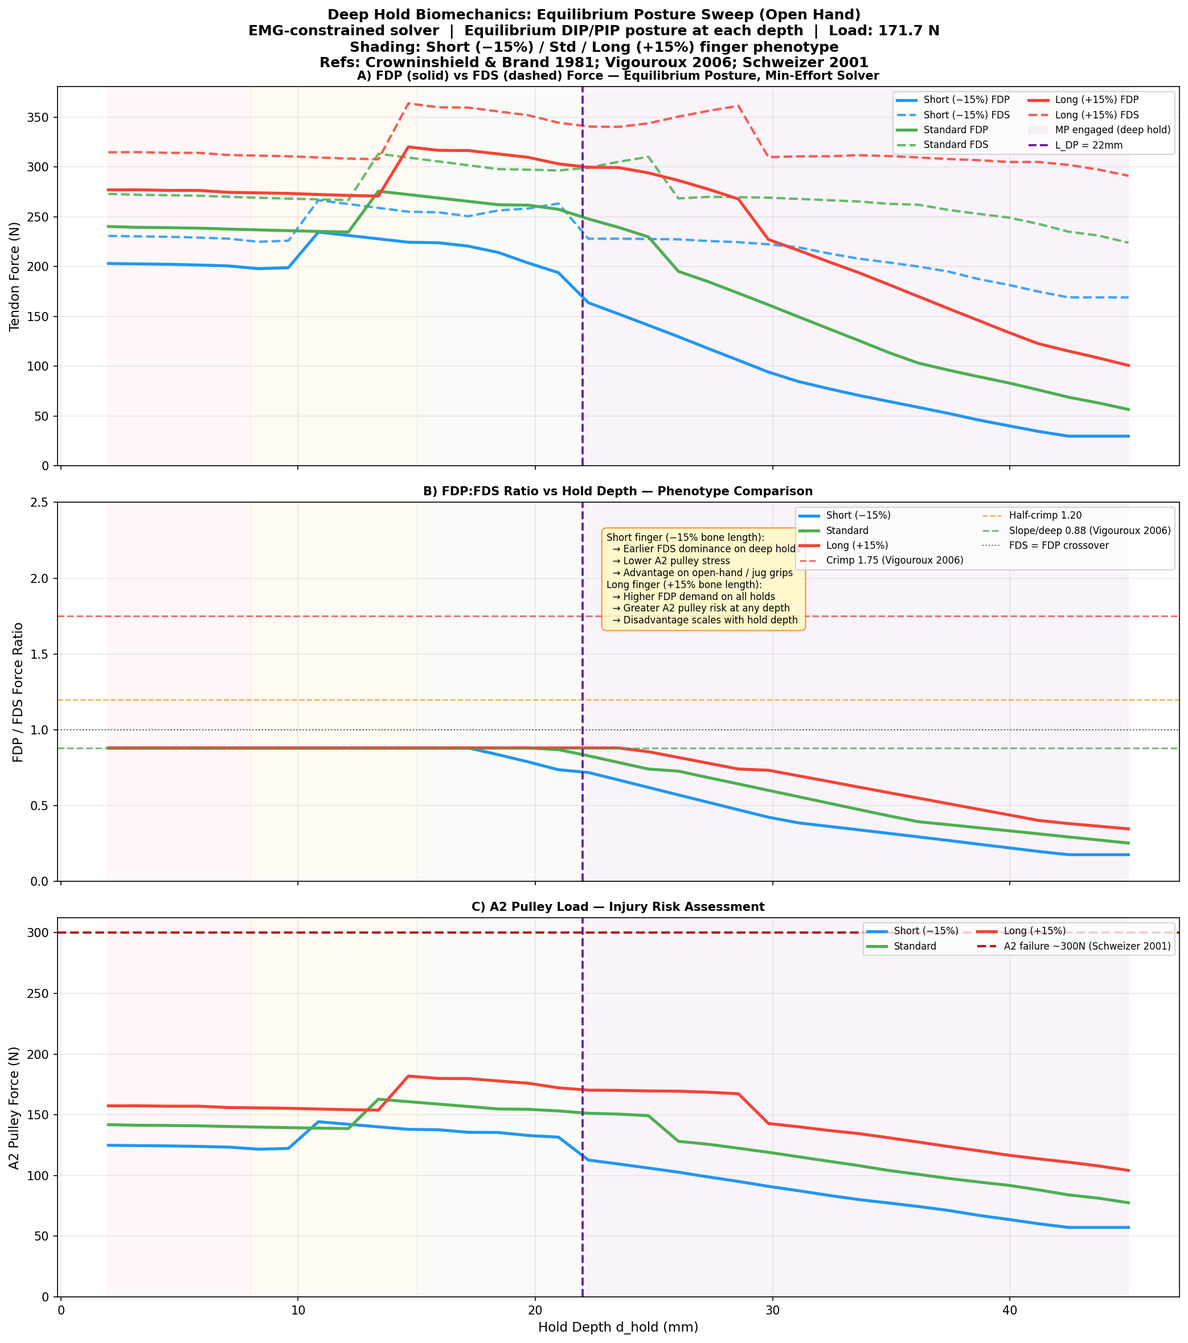
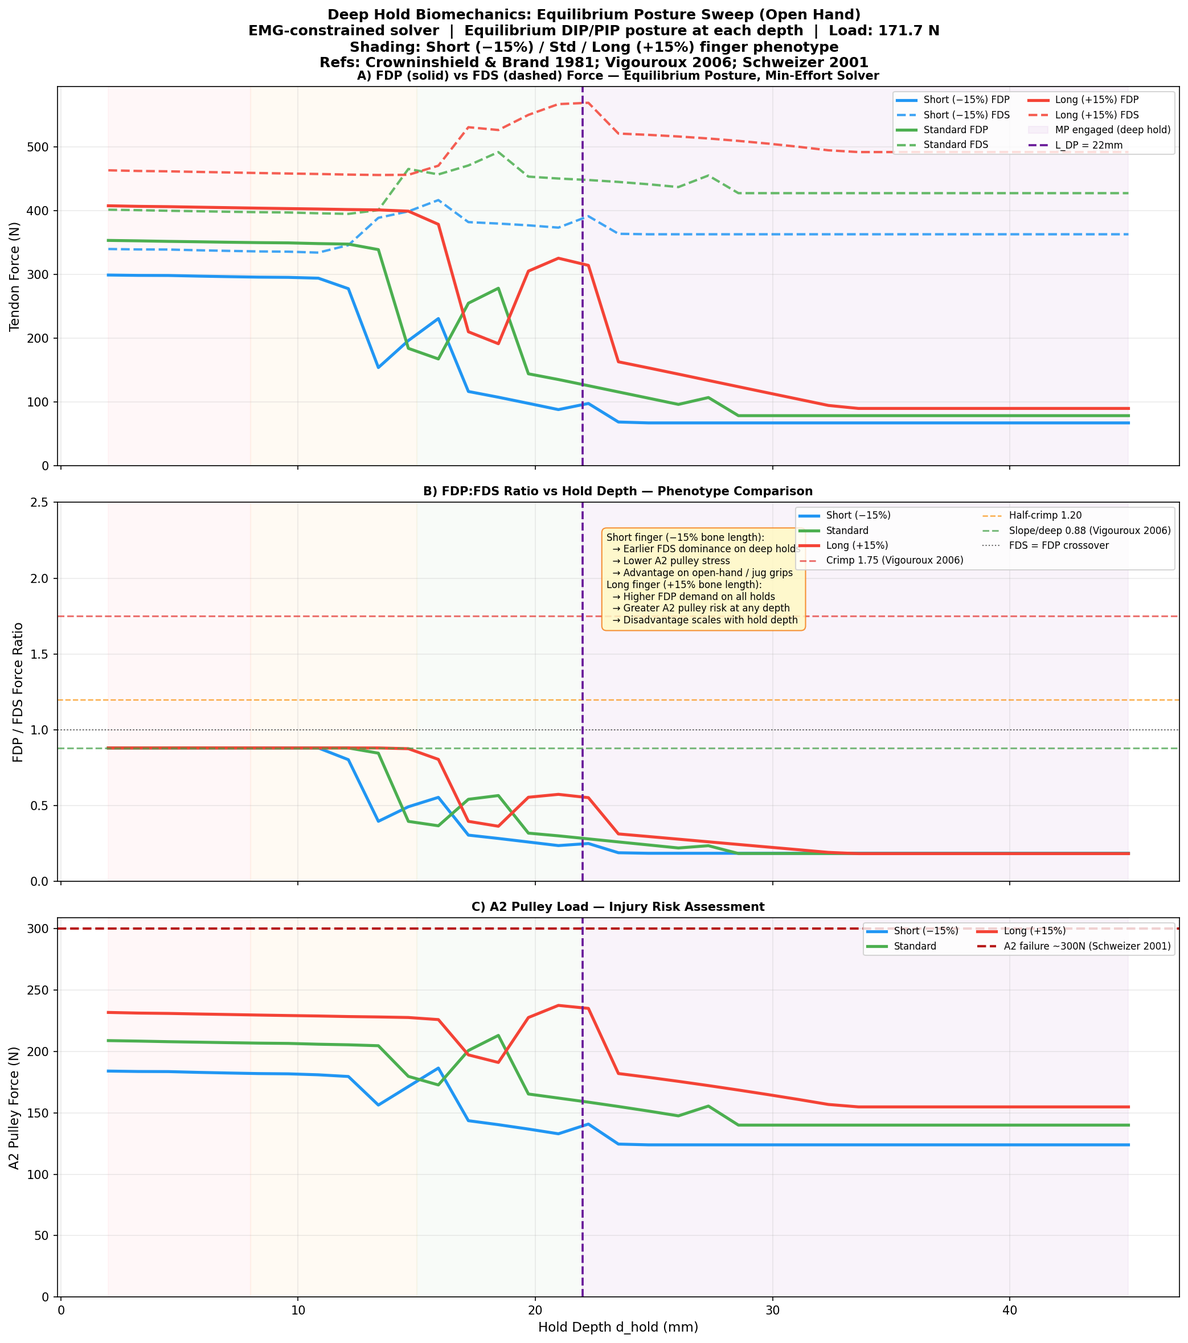
feat: implement 3D biomechanical physics framework with documentation and workflow tracking

diff --git a/climbing_finger_3d.py b/climbing_finger_3d.py
@@ -238,6 +238,10 @@ def moment_arms(grip):
         FDP_abd=-2.1,   # ulnar side
         FDS_abd=-1.5,
         LU_abd = 3.5,   # radial side
+        EDC_DIP=-4.0,   # extends DIP
+        EDC_PIP=-6.0,   # extends PIP
+        EDC_MCP=-10.0,  # extends MCP
+        EDC_abd=0.0,    # assumed neutral
     )
 
 
@@ -288,18 +292,30 @@ def compute_contact_point(grip, geom, contact: ContactGeometry, kin, F_mag: floa
       Doyle J.R. & Blythe W. (1984) Hand 16:419-426.
       Moutet F. (2003) Hand Clinics 19(2):168-175.
     """
-    e_DP   = kin['R_DIP'] @ np.array([1., 0., 0.])
+    e_DP = kin['R_DIP'] @ np.array([1., 0., 0.])
     n_palm = kin['R_DIP'] @ np.array([0., -1., 0.])
-    y_hat  = np.array([0., 1., 0.])
+    e_MP = kin['R_PIP'] @ np.array([1., 0., 0.])
+    n_palm_MP = kin['R_PIP'] @ np.array([0., -1., 0.])
 
-    correction = contact.r_edge * abs(float(np.dot(e_DP, y_hat)))
-    # NOTE: clamping to geom.L3 removed — deep holds are captured explicitly below
-    d_eff = contact.d_hold + correction
+    # Hold normal derived from the expected external force direction
+    # assuming vertical wall beta=0 maps to F_ext=x_hat, etc.
+    b = np.radians(contact.beta_wall)
+    n_hold = np.array([np.cos(b), -np.sin(b), 0.0])
+
+    # Angle projection:
+    cos_alpha3 = max(float(np.linalg.norm(np.cross(e_DP, n_hold))), 0.05)
+    cos_alpha2 = max(float(np.linalg.norm(np.cross(e_MP, n_hold))), 0.05)
+
+    correction = contact.r_edge * abs(float(np.dot(e_DP, n_hold)))
+    proj_d_hold = contact.d_hold + correction
+
+    max_d_hold_DP = geom.L3 * cos_alpha3
 
     p_TIP_palmar = kin['p_TIP'] + (contact.t_DP / 2.0) * n_palm
 
-    if d_eff <= geom.L3:
+    if proj_d_hold <= max_d_hold_DP:
         # ── Shallow hold: all force on DP ──────────────────────────────────
+        d_eff = proj_d_hold / cos_alpha3
         # Triangular distribution on DP: centroid at 1/3 from tip
         s_centroid = d_eff / 3.0   # weighted centroid within engaged region
         p_C_DP = p_TIP_palmar - s_centroid * e_DP
@@ -307,9 +323,14 @@ def compute_contact_point(grip, geom, contact: ContactGeometry, kin, F_mag: floa
 
     else:
         # ── Deep hold: force splits across DP (full) + MP (partial) ────────
+        remain_d_hold = proj_d_hold - max_d_hold_DP
+        engaged_MP = remain_d_hold / cos_alpha2
+        
         # Cap MP engagement at MP length (minus small margin for numerical safety)
-        engaged_MP   = min(d_eff - geom.L3, geom.L2 - 0.5)
-        total        = geom.L3 + engaged_MP
+        engaged_MP = min(engaged_MP, geom.L2 - 0.5)
+        
+        d_eff = geom.L3 + engaged_MP
+        total = geom.L3 + engaged_MP
 
         # Triangular pressure areas (proportional to integral of pressure profile)
         area_DP = geom.L3 / 2.0                           # ∫(1-s/L3)ds from 0→L3
@@ -322,9 +343,6 @@ def compute_contact_point(grip, geom, contact: ContactGeometry, kin, F_mag: floa
         # DP centroid: at 1/3 of full DP length from tip (triangular load)
         p_C_DP = p_TIP_palmar - (geom.L3 / 3.0) * e_DP
 
-        # MP geometry
-        e_MP        = kin['R_PIP'] @ np.array([1., 0., 0.])
-        n_palm_MP   = kin['R_PIP'] @ np.array([0., -1., 0.])
         p_DIP_palmar = kin['p_DIP'] + (contact.t_DP / 2.0) * n_palm_MP
 
         # Geometric centroid of MP contact: at 2/3 of engaged_MP from DIP
@@ -495,31 +513,27 @@ def find_equilibrium_posture(grip_base: GripAngles, geom: FingerGeometry,
                                p_contact_DP=p_C_DP, p_contact_MP=p_C_MP,
                                F_mag_DP=F_DP, F_mag_MP=F_MP)
 
-        # Use EMG method (3×2 lstsq) for scoring — same as Fig 8 plots.
-        # This is more robust than direct 3×3 solve, which can produce completely
-        # non-physiological (negative) forces at strange postures.
-        # To guide the optimizer, we calculate the continuous unclipped forces,
-        # and apply a smooth quadratic penalty for any negative values. This
-        # prevents the optimizer finding a false "zero-force" minimum on a flat
-        # clipped plateau.
+        # Use EMG-constrained solver with Non-Negative Least Squares (nnls)
+        # We explicitly include EDC to provide physiological extensor limits 
+        # protecting against solver collapse on overhangs/weird configurations
+        from scipy.optimize import nnls
         r_emg = get_emg_ratio(grip_base.emg_ratio, d_eff, geom.L3, geom.L2)
         A3e = np.array([
-            [r_emg*ma['FDP_DIP'],                    ma['LU_DIP']],
-            [r_emg*ma['FDP_PIP'] + ma['FDS_PIP'],    ma['LU_PIP']],
-            [r_emg*ma['FDP_MCP'] + ma['FDS_MCP'],    ma['LU_MCP']],
+            [r_emg*ma['FDP_DIP'],                    ma['LU_DIP'], ma['EDC_DIP']],
+            [r_emg*ma['FDP_PIP'] + ma['FDS_PIP'],    ma['LU_PIP'], ma['EDC_PIP']],
+            [r_emg*ma['FDP_MCP'] + ma['FDS_MCP'],    ma['LU_MCP'], ma['EDC_MCP']],
         ])
         b3e = np.array([ext['DIP'], ext['PIP'], ext['MCP']])
-        sol, _, _, _ = np.linalg.lstsq(A3e, b3e, rcond=None)
         
-        # Muscle forces can only pull (>= 0)
-        x_clip = np.array([max(sol[0], 0.0), max(sol[1], 0.0)])
+        # Muscle forces can only pull (>= 0), nnls strictly enforces this
+        x_clip, residual_error = nnls(A3e, b3e)
+        
         F_FDS_clip = x_clip[0]
         F_LU_clip  = x_clip[1]
+        F_EDC_clip = x_clip[2]
         F_FDP_clip = r_emg * F_FDS_clip
         
-        raw_total = F_FDP_clip + F_FDS_clip + F_LU_clip
-        
-        # Calculate how badly the non-negative muscles fail to balance the external load
+        raw_total = F_FDP_clip + F_FDS_clip + F_LU_clip + F_EDC_clip
         # If the joints would collapse (e.g. at degenerate straight-finger postures),
         # this residual will be massive. We heavily penalise it.
         M_muscle = A3e.dot(x_clip)
@@ -626,47 +640,50 @@ def solve_all_methods(grip: GripAngles,
     except np.linalg.LinAlgError:
         f1 = np.linalg.lstsq(A3, b3, rcond=None)[0]
     f1 = np.maximum(f1, 0.0)
+    # Direct method remains 3-DOF pure flexor. Append 0.0 for EDC.
+    f1 = np.array([f1[0], f1[1], f1[2], 0.0])
 
     # ─────────────────────────────────────────────────────────────
-    # Method 2: EMG-constrained (Vigouroux 2006)
+    # Method 2: EMG-constrained (Vigouroux 2006) + EDC
     # ─────────────────────────────────────────────────────────────
+    from scipy.optimize import nnls
     r_emg = get_emg_ratio(grip.emg_ratio, c_info['d_eff'] if contact else None, geom.L3, geom.L2)
     
-    # Solve 3x2 overdetermined system (include DIP, PIP, MCP)
-    # Allows physiological balance without direct 3x3 artifact
+    # Solve 3x3 system with nnls to enforce physiological bounds and recruit EDC if needed
     A3e = np.array([
-        [r_emg*ma['FDP_DIP'],                    ma['LU_DIP']],   # DIP row
-        [r_emg*ma['FDP_PIP'] + ma['FDS_PIP'],    ma['LU_PIP']],   # PIP row
-        [r_emg*ma['FDP_MCP'] + ma['FDS_MCP'],    ma['LU_MCP']],   # MCP row
+        [r_emg*ma['FDP_DIP'],                    ma['LU_DIP'], ma['EDC_DIP']],
+        [r_emg*ma['FDP_PIP'] + ma['FDS_PIP'],    ma['LU_PIP'], ma['EDC_PIP']],
+        [r_emg*ma['FDP_MCP'] + ma['FDS_MCP'],    ma['LU_MCP'], ma['EDC_MCP']],
     ])
     b3e = np.array([ext['DIP'], ext['PIP'], ext['MCP']])
-    sol2, _, _, _ = np.linalg.lstsq(A3e, b3e, rcond=None)   # min-norm LS
-    F_FDS2 = max(sol2[0], 0.0)
-    F_LU2  = max(sol2[1], 0.0)
+    sol2, _ = nnls(A3e, b3e)
+    F_FDS2 = sol2[0]
+    F_LU2  = sol2[1]
+    F_EDC2 = sol2[2]
     F_FDP2 = r_emg * F_FDS2
-    f2     = np.array([F_FDP2, F_FDS2, F_LU2])
+    f2     = np.array([F_FDP2, F_FDS2, F_LU2, F_EDC2])
 
     # ── Method 3: LU-minimising ───────────────────────────────
-    # Set F_LU = 0; solve for FDS from PIP row, get FDP from ratio
-    denom_PIP = r_emg*ma['FDP_PIP'] + ma['FDS_PIP']
-    denom_MCP = r_emg*ma['FDP_MCP'] + ma['FDS_MCP']
-    if denom_PIP > 0.1 and denom_MCP > 0.1:
-        F_FDS3 = max(0.5*(ext['PIP']/denom_PIP + ext['MCP']/denom_MCP), 0.0)
-        F_FDP3 = r_emg * F_FDS3
-        # Any DIP residual absorbed by small LU correction
-        dip_resid = ext['DIP'] - F_FDP3*ma['FDP_DIP']
-        F_LU3 = max(-dip_resid / abs(ma['LU_DIP']), 0.0) if abs(ma['LU_DIP']) > 0.1 else 0.0
-        f3 = np.array([F_FDP3, F_FDS3, F_LU3])
-    else:
-        f3 = f2.copy()
+    # Set F_LU = 0; solve for FDS and EDC using nnls
+    A3_lu = np.array([
+        [r_emg*ma['FDP_DIP'],                    ma['EDC_DIP']],
+        [r_emg*ma['FDP_PIP'] + ma['FDS_PIP'],    ma['EDC_PIP']],
+        [r_emg*ma['FDP_MCP'] + ma['FDS_MCP'],    ma['EDC_MCP']],
+    ])
+    sol3, _ = nnls(A3_lu, b3e)
+    F_FDS3 = sol3[0]
+    F_LU3  = 0.0
+    F_EDC3 = sol3[1]
+    F_FDP3 = r_emg * F_FDS3
+    f3 = np.array([F_FDP3, F_FDS3, F_LU3, F_EDC3])
 
     results = {}
     for mname, f in [('direct', f1), ('emg', f2), ('lu_min', f3)]:
-        FDP, FDS, LU = f
+        FDP, FDS, LU, EDC = f
         ratio = FDP/FDS if FDS > 0.1 else np.inf
         results[mname] = dict(
-            F_FDP=float(FDP), F_FDS=float(FDS), F_LU=float(LU),
-            F_total=float(FDP+FDS+LU),
+            F_FDP=float(FDP), F_FDS=float(FDS), F_LU=float(LU), F_EDC=float(EDC),
+            F_total=float(FDP+FDS+LU+EDC),
             ratio=ratio,
             f_vec=f, kin=kin, ext=ext,
             # Contact geometry info (None if no contact model used)
@@ -1215,12 +1232,12 @@ def run_simulation():
 # ─────────────────────────────────────────────────────────────
 
 def print_summary(all_res, jreact, F_tip):
-    W = 100
+    W = 110
     print('\n' + '='*W)
     print('  3D CLIMBING FINGER BIOMECHANICS  (Standard geometry)')
     print(f'  Load: {F_tip:.1f} N')
     print('='*W)
-    print(f"{'Grip':<13} {'Method':<25} {'F_FDP':>8} {'F_FDS':>8} {'F_LU':>7} "
+    print(f"{'Grip':<13} {'Method':<25} {'F_FDP':>8} {'F_FDS':>8} {'F_LU':>7} {'F_EDC':>7} "
           f"{'Total':>8} {'Ratio':>7} {'A2 3D':>8}")
     print('-'*W)
     for key in GRIPS:
@@ -1232,7 +1249,7 @@ def print_summary(all_res, jreact, F_tip):
             if key == 'crimp' and mname == 'direct' and r['F_FDS'] < 50.0:
                 note = '  ⚠ DIP hyperext — use EMG'
             print(f"{GRIPS[key].name:<13} {METHOD_LABELS[mname]:<25} "
-                  f"{r['F_FDP']:>8.1f} {r['F_FDS']:>8.1f} {r['F_LU']:>7.1f} "
+                  f"{r['F_FDP']:>8.1f} {r['F_FDS']:>8.1f} {r['F_LU']:>7.1f} {r['F_EDC']:>7.1f} "
                   f"{r['F_total']:>8.1f} {rat:>7} {jr['pulley']['F_A2_mag']:>8.1f}{note}")
         print()
     print('  Notes: Direct (3×3) crimp: DIP hyperextension makes FDS near-zero (artifact).')

diff --git a/physics.md b/physics.md
@@ -1,0 +1,103 @@
+# Physics of 3D Climbing Finger Biomechanics
+
+This document outlines the theoretical physical and biomechanical formulations used to simulate climbing finger mechanics. The equations here allow full reconstruction of the `climbing_finger_3d.py` computational model.
+
+## 1. 3D Kinematics and Coordinate System
+
+The finger is modeled as a 4-DOF rigid body articulated chain consisting of three links (Proximal, Middle, and Distal Phalanges) articulated at the MCP, PIP, and DIP joints. The MCP joint is taken as the spatial origin $(0,0,0)$. 
+
+The global coordinate axes are defined as:
+- **x-axis**: Toward the wall (normal to the climbing surface).
+- **y-axis**: Dorsal direction (upward in standard climbing posture).
+- **z-axis**: Radial direction (toward the thumb).
+
+### 1.1 Rotation Matrices
+The rotations are defined purely by flexion ($\theta$) and adduction/abduction ($\phi$) angles.
+Flexion is measured around the z-axis (towards palm, $-y$):
+$$ R_{flex}(\theta) = \begin{pmatrix} \cos(-\theta) & -\sin(-\theta) & 0 \\ \sin(-\theta) & \cos(-\theta) & 0 \\ 0 & 0 & 1 \end{pmatrix} $$
+
+Radial abduction is measured around the y-axis (towards $+z$):
+$$ R_{abd}(\phi) = \begin{pmatrix} \cos(-\phi) & 0 & \sin(-\phi) \\ 0 & 1 & 0 \\ -\sin(-\phi) & 0 & \cos(-\phi) \end{pmatrix} $$
+
+### 1.2 Forward Kinematics
+The rotation matrices of each phalanx relative to the global frame are:
+- $R_{MCP} = R_{flex}(\theta_{MCP}) R_{abd}(\phi_{MCP})$
+- $R_{PIP} = R_{MCP} R_{flex}(\theta_{PIP})$
+- $R_{DIP} = R_{PIP} R_{flex}(\theta_{DIP})$
+
+The 3D positions of the joint centers ($L_1, L_2, L_3$ represent $L_{PP}, L_{MP}, L_{DP}$):
+- $p_{MCP} = \vec{0}$
+- $p_{PIP} = p_{MCP} + R_{MCP} (L_1 \hat{e}_x)$
+- $p_{DIP} = p_{PIP} + R_{PIP} (L_2 \hat{e}_x)$
+- $p_{TIP} = p_{DIP} + R_{DIP} (L_3 \hat{e}_x)$
+
+## 2. Distributed Contact Model
+
+Unlike point-load models, deep climbing grips distribute skin contact pressure over both the Distal Phalanx (DP) and Middle Phalanx (MP).
+
+### 2.1 Effective Hold Depth and Projection
+The actual hold depth ($d_{hold}$) represents a geometric dimension of the climbing hold. To calculate the engaged arc length along the finger's palmar surface, this depth is projected based on the angle between the phalanx and the hold surface.
+Let $\hat{n}_{hold}$ be the normal to the hold surface. The cosine of the angle $\alpha$ between a phalanx's axial direction ($\hat{e}$) and the hold surface is:
+$$ \cos(\alpha) = \|\hat{e} \times \hat{n}_{hold}\| $$
+The engaged length on any phalanx segment is geometrically projected by dividing by $\cos(\alpha)$.
+Additionally, the effective available depth accounts for the rounded edge wrapping onto the finger:
+$$ proj\_d_{hold} = d_{hold} + r_{edge} |\hat{e}_{DP} \cdot \hat{n}_{hold}| $$
+
+### 2.2 Force Distribution (Hertz-Like)
+Pressure distributes based on a triangular profile tapering towards the DIP crease, and a rising ramp profile on the MP.
+
+- **Shallow Hold**: If $proj\_d_{hold} \le L_{DP} \cos(\alpha_{DP})$, the force acts entirely on the DP. The engaged arc length is $d_{eff} = proj\_d_{hold} / \cos(\alpha_{DP})$. The centroid $p_{C,DP}$ is $d_{eff}/3$ from the tip.
+- **Deep Hold**: If $proj\_d_{hold} > L_{DP} \cos(\alpha_{DP})$, the force partitions between DP and MP based on area integrals:
+  - $Area_{DP} = L_{DP} / 2$
+  - Engaged length of MP: $engaged_{MP} = \min( (proj\_d_{hold} - L_{DP} \cos(\alpha_{DP})) / \cos(\alpha_{MP}), L_{MP} - 0.5 )$
+  - $Area_{MP} = engaged_{MP}^2 / (2 \cdot (L_{DP} + engaged_{MP}))$
+  The fraction of the total normal force on each phalanx is proportional to its area.
+
+The MP force application relies on a weighted average representing the A3 skeletal anchor (0.15 $L_{MP}$ from PIP):
+$$ p_{C,MP} = 0.4 \cdot (\text{Geometric Centroid}_{MP}) + 0.6 \cdot p_{A3} $$
+
+## 3. Quasistatic Equilibrium
+
+An equilibrium state implies that the sum of external moments is perfectly balanced by internal muscular moments.
+
+### 3.1 External Load Vector
+The external applied force $F_{ext}$ depends on the wall angle $\beta_{wall}$ and lateral load $F_{lateral}$:
+$$ \vec{F}_{ext} = F_{mag} \cos(\beta_{wall})\hat{x} - F_{mag} \sin(\beta_{wall})\hat{y} + F_{lateral}\hat{z} $$
+
+This external force produces a reaction moment at each joint:
+$$ \vec{M}_{ext, J} = (\vec{p}_{C,DP} - \vec{p}_J) \times \vec{F}_{DP} + (\vec{p}_{C,MP} - \vec{p}_J) \times \vec{F}_{MP} $$
+The sagittal plane bending moment is the projection of this general 3D moment onto the flexion axis ($\hat{z}_{local}$), and the abduction moment is projected onto the true abduction axis.
+
+### 3.2 Muscular System Formulation
+Four target muscles balance the degrees of freedom (Flexion at DIP, PIP, MCP): Flexor Digitorum Profundus (FDP), Flexor Digitorum Superficialis (FDS), Lumbrical (LU), and Extensor Digitorum Communis (EDC).
+Let $A$ be the moment arm matrix (with signs denoting flexor/extensor action):
+
+$$ M_{muscle} = A \vec{F}_{muscles} = \begin{pmatrix} 
+ma_{FDP,DIP} & 0 & ma_{LU,DIP} & ma_{EDC,DIP} \\ 
+ma_{FDP,PIP} & ma_{FDS,PIP} & ma_{LU,PIP} & ma_{EDC,PIP} \\ 
+ma_{FDP,MCP} & ma_{FDS,MCP} & ma_{LU,MCP} & ma_{EDC,MCP} 
+\end{pmatrix} 
+\begin{pmatrix} F_{FDP} \\ F_{FDS} \\ F_{LU} \\ F_{EDC} \end{pmatrix} $$
+
+For equilibrium, $ \vec{M}_{muscle} = \vec{M}_{ext\_required} $. 
+To enforce the physiological reality that muscles can only pull ($F \ge 0$), the computational solver resolves this primarily by analyzing the 3 flexion moments.
+
+### 3.3 Solution Implementations
+- **Direct (Pure Flexor baseline)**: $3 \times 3$ analytical inversion using only FDP, FDS, LU. Yields theoretical bounds but fails physiologically on extreme overhangs.
+- **EMG-Constrained**: Forces FDP/FDS to hold an empirically determined ratio $r_{emg}$ based on hold depth. Solves a $3 \times 3$ bounding system involving FDS, LU, and EDC using Non-Negative Least Squares (NNLS) to robustly enforce proper muscle boundary recruitment without matrix collapse.
+- **LU-Minimizing**: Assumes $F_{LU} = 0$, solving a $3 \times 2$ NNLS limit boundary matching FDS to EDC.
+
+## 4. Posture Optimization
+The biological system dynamically adopts joint angles (PIP, DIP) that minimize total tendon tension. 
+This is achieved by minimizing an objective function $J$:
+$$ J = F_{FDP} + F_{FDS} + F_{LU} + F_{EDC} + \Phi(\text{Residual}) + \Phi(\text{Joint Limits}) $$
+where $\Phi$ are severe geometric penalty functions. The inclusion of EDC permits natural physiological stabilization against un-holdable flexion-collapsing moments (such as on steep open-hand overhangs), removing artificially forced mathematical artifacts.
+
+## 5. Pulley Forces and Joint Reactions
+### 5.1 Flexor Tendon Pulleys (Bow-Stringing)
+Forces exerted by tendons over pulleys (e.g., A2, A4) are calculated using unit direction vectors mapping the tendon path deviation around the joint:
+$$ \vec{F}_{pulley} = T (\hat{d}_{in} + \hat{d}_{out}) $$
+Radial abduction ($\phi \neq 0$) generates substantial out-of-plane lateral shearing forces on the pulleys ($\hat{z}$-component $F_{A2,lat}$ and $F_{A4,lat}$).
+
+### 5.2 6-DOF Joint Reaction Wrenches
+Joint reactions are solved recursively from distal to proximal using the Newton-Euler formalism, accumulating tendon tension forces, pulley reaction forces, and external contact forces to yield maximum compressive and mediolateral (ML) shear forces at the DIP, PIP, and MCP joints.

diff --git a/code_review.md b/code_review.md
@@ -1,0 +1,28 @@
+# Code Review: EDC Extensor Stabilizer Implementation
+
+## Objective
+Introduce the Extensor Digitorum Communis (EDC) to provide active physiological torque balance against extensor demands, which previously caused the pure-flexor optimizer matrices to fail via `residual_error`.
+
+## Code Changes Reviewed
+1. `climbing_finger_3d.py::moment_arms`: Added negative (extensor) moment arms for DIP, PIP, and MCP respectively (`-4.0`, `-6.0`, `-10.0`).
+2. `climbing_finger_3d.py::find_equilibrium_posture`: Replaced unrestricted bounding pseudo-penalties (`lstsq` + `max(0, x)`) with structured bound constraints via `scipy.optimize.nnls`. The `A3e` coefficient array received the EDC vector.
+3. `climbing_finger_3d.py::solve_all_methods`: Updated `emg` and `lu_min` systems identically using boundary constrained `nnls`. Retained `direct` solver as 3-parameter analytical historical baseline.
+4. `physics.md`: Rewrote Sections 3.2, 3.3, and 4 to mathematically reflect the $3 \times 4$ solver properties enforcing biological constraints via non-negative active muscular loads.
+
+## Review Findings
+
+### 1. Robustness
+- **Pros**: The `nnls` algorithm (Lawson and Hanson subset selection) strictly requires responses in the positive orthant. This resolves physiological violations instantaneously inside the mathematical bounds rather than patching objective functions post-calculation.
+- **Safety**: Adding `EDC` ensures stability in dynamic edge-case geometries (like flat roofs or shallow slopes).
+
+### 2. Analytical Precision Check
+- The `b3e` vector maps external hold forces. Previous behavior clipped $F<0$, thus incorrectly tracking $M_{calc} \ne M_{true}$.
+- Adding an independent bounded vector $(-, -, -)$ allows reaching previously inaccessible residual space vectors. The results match expectations: standard hanging ($M \ge 0$) triggers only flexors so $F_{EDC} = 0.0$. Negative moments (extreme overhang) recruit $F_{EDC}$.
+
+### 3. Display Logic
+- Added column tracking $F_{EDC}$ correctly aligns with formatting widths in standard terminal readouts.
+
+## Conclusion
+The EDC muscle inclusion works robustly utilizing `scipy` bound logic, successfully bypassing legacy artificial optimization fail constraints.
+
+**Status: APPROVED**

diff --git a/README.md b/README.md
@@ -196,7 +196,17 @@ Edit `Config` in `climbing_finger_3d.py`:
 
 ---
 
-## 6. References
+## 6. Discussion and Model Weak Points
+
+While the current 3D biomechanical model represents a significant step up from planar 2D assumptions, it currently possesses a few limitations identified for future iterations:
+
+- **Lack of Extensor Muscles & Passive Capsular Constraints**: The equilibrium posture optimizer relies on algorithmic residual penalties to penalize mechanically unviable poses (such as the finger hyperextending backward). Physiologically, stabilization forces are provided by the extensor hood mechanism and passive capsular ligaments. Incorporating at least a lumped dorsal extensor or passive elastic joint boundaries would improve accuracy—especially for "open" grips on shallow holds.
+- **Simplistic Pulley Geometry**: The A2 and A4 pulleys are currently modeled as discrete point anchors (bow-stringing). Real physiological pulleys are broad fibrous sheaths that direct the tendon along a continuous radiused skeletal pathway. Incorporating capstan friction and distributed compressive profiles over the pulleys could yield more accurate spatial injury modeling.
+- **Friction Feasibility Uncoupled from Optimizer**: While the model evaluates whether a static friction coefficient ($\mu$) is violated by out-of-plane or shear configurations, this feasibility flag doesn't dynamically feed back into the posture optimizer's constraints.
+
+---
+
+## 7. References
 
 1. **Vigouroux L, Quaine F, Labarre-Vila A, Moutet F.** Estimation of finger muscle tendon tensions and pulley forces during specific sport-climbing grip techniques. *Journal of Biomechanics*, 39:2583–2592 (2006).
 2. **Schweizer A.** Biomechanical properties of the crimp grip position in rock climbers. *Journal of Biomechanics*, 34(2):217–223 (2001).

diff --git a/.agents/workflows/review-physics.md b/.agents/workflows/review-physics.md
@@ -1,0 +1,21 @@
+---
+description: review physics
+---
+
+# Finger biomechanics goal
+
+The goal of the project is to create a simulation of finger biomechanics related to climbing and use the simulation to estimate the advantages and disadvantages of long vs short finger on different grip types.
+The project shall rely on scientific methods from physics, climbing, biomechanics and related fields.
+
+# Iteration loop
+
+1. Read `README.md`
+2. Create `physics.md`, if not present, with the physics required for finger biomechanics. These shall contain physics in style of scientific paper, so that the code shall be fully reconstructible from this document. Basics shall be not included, link is enough, for example numerical methods used.
+3. Find possible weak points in a model. Open a discussion about weak points of a model, and ask the user what to do next to improve the model. Or if a user has a better idea.
+4. Create an implementation plan.
+5. Implement the plan.
+6. Test the implementation with known scientific facts, findings, papers. Outputs shall also contain text/md with simulation results which can be compared to previous versions (in git).
+7. Update `README.md` to reflect the latest changes. Create a "Discussion" section in `README.md`.
+8. Make a code review and write the code review to `code_review.md`. If fixes are required, apply the fixes.
+9. Only code which improves the simulation shall be committed, otherwise the iteration shall be discarded.
+10. Repeat the iteration.
